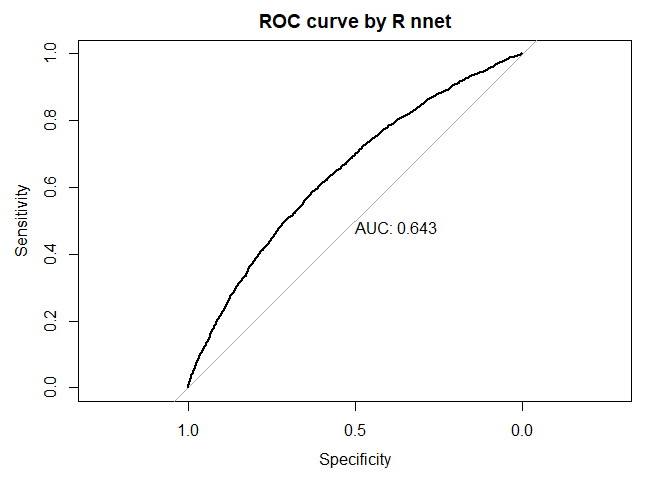
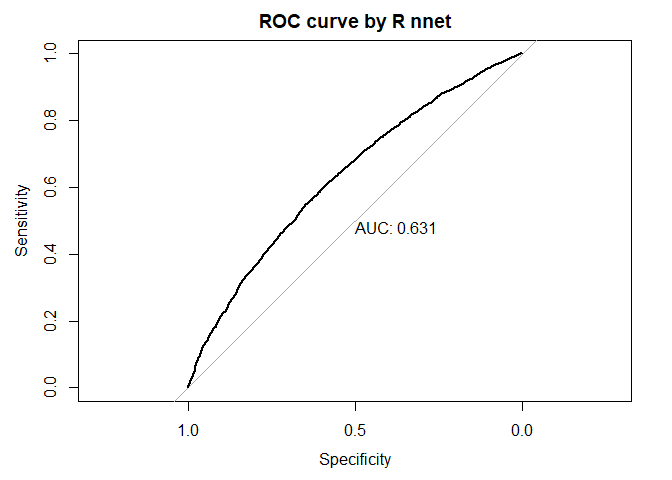
Updated the interpretations in README.

diff --git a/README.md b/README.md
@@ -96,7 +96,7 @@ nn_model_nnet <- nnet::nnet(X,Y,size=h, trace=FALSE)
 ``` r
 plot(nn_model)
 #> Setting levels: control = 0, case = 1
-#> Setting direction: controls < cases
+#> Setting direction: controls > cases
 #> Setting levels: control = 0, case = 1
 #> Setting direction: controls < cases
 ```
@@ -107,8 +107,8 @@ plot(nn_model)
     #> Call:
     #> roc.default(response = data[, ncol(data)], predictor = nn_R_pred,     plot = TRUE, print.auc = TRUE, main = "ROC curve by R nnet")
     #> 
-    #> Data: nn_R_pred in 4920 controls (data[, ncol(data)] 0) < 5080 cases (data[, ncol(data)] 1).
-    #> Area under the curve: 0.6426
+    #> Data: nn_R_pred in 4875 controls (data[, ncol(data)] 0) < 5125 cases (data[, ncol(data)] 1).
+    #> Area under the curve: 0.6312
     summary(nn_model)
     #> $num_nodes
     #>  # of input nodes # of hidden nodes # of output nodes 
@@ -122,38 +122,38 @@ plot(nn_model)
     #> 
     #> $weight_bias_matrices
     #> $weight_bias_matrices$weight_input_hidden
-    #>              X1         X2
-    #> [1,] 0.01818306 0.08968018
-    #> [2,] 0.01818306 0.08968018
-    #> [3,] 0.01818306 0.08968018
-    #> [4,] 0.01818306 0.08968018
+    #>               X1         X2
+    #> [1,] -0.03438751 -0.0735563
+    #> [2,] -0.03438751 -0.0735563
+    #> [3,] -0.03438751 -0.0735563
+    #> [4,] -0.03438751 -0.0735563
     #> 
     #> $weight_bias_matrices$weight_hidden_output
     #>            [,1]       [,2]       [,3]       [,4]
-    #> [1,] 0.01680826 0.01680826 0.01680826 0.01680826
+    #> [1,] 0.02524909 0.02524909 0.02524909 0.02524909
     #> 
     #> $weight_bias_matrices$bias_hidden
-    #>            [,1]
-    #> [1,] 0.01024479
-    #> [2,] 0.01024479
-    #> [3,] 0.01024479
-    #> [4,] 0.01024479
+    #>             [,1]
+    #> [1,] 0.009070399
+    #> [2,] 0.009070399
+    #> [3,] 0.009070399
+    #> [4,] 0.009070399
     #> 
     #> $weight_bias_matrices$bias_output
-    #>             [,1]
-    #> [1,] -0.06650967
+    #>            [,1]
+    #> [1,] -0.1259049
     print(nn_model) # This will print the benchmark comparison for training part.
     #> Warning: Some expressions had a GC in every iteration; so filtering is disabled.
     #> # A tibble: 2 x 13
     #>   expression   min median `itr/sec` mem_alloc gc/se~1 n_itr  n_gc total~2 result
     #>   <bch:expr> <dbl>  <dbl>     <dbl>     <dbl>   <dbl> <int> <dbl> <bch:t> <list>
-    #> 1 BackPropNN  38.9   25.6      1         1        Inf     1    14   501ms <NULL>
-    #> 2 R nnet       1      1        5.53      6.82     NaN     7     0   634ms <NULL>
+    #> 1 BackPropNN  27.8   25.5      1         1        Inf     2    27   942ms <NULL>
+    #> 2 R nnet       1      1        9.25      6.82     NaN    10     0   509ms <NULL>
     #> # ... with 3 more variables: memory <list>, time <list>, gc <list>, and
     #> #   abbreviated variable names 1: `gc/sec`, 2: total_time
     #> $mse_comparison
     #>     MSE by R nnet MSE by BackPropNN 
-    #>         0.2346527         0.2499971
+    #>         0.2367532         0.2517741
 
     # Running the benchmark comparison for prediction task.
     bench::mark("BackPropNN"=feed_forward(data, nn_model),
@@ -163,8 +163,8 @@ plot(nn_model)
     #> # A tibble: 2 x 6
     #>   expression   min median `itr/sec` mem_alloc `gc/sec`
     #>   <bch:expr> <dbl>  <dbl>     <dbl>     <dbl>    <dbl>
-    #> 1 BackPropNN  828.   706.        1       1        1.23
-    #> 2 R nnet        1      1       639.      3.34     1
+    #> 1 BackPropNN  751.   715.        1       1        2.33
+    #> 2 R nnet        1      1       652.      3.34     1
 
 We see that a better AUC score is achieved by the BackPropNN package
 than R nnet, however a better mse is achieved by R nnet (achieving
@@ -196,9 +196,9 @@ bench::mark("Original"=back_propagation_training(i, h, o, learning_rate,
 #> # A tibble: 3 x 6
 #>   expression    min median `itr/sec` mem_alloc `gc/sec`
 #>   <bch:expr>  <dbl>  <dbl>     <dbl>     <dbl>    <dbl>
-#> 1 Original   135.   121.        1         1         Inf
-#> 2 R nnet       4.26   5.59      6.02      6.82      NaN
-#> 3 Rcpp         1      1       116.        2.41      Inf
+#> 1 Original   125.   129.        1         1         Inf
+#> 2 R nnet       5.40   6.63      3.45      6.82      NaN
+#> 3 Rcpp         1      1       122.        2.41      Inf
 
 # Running the benchmark comparison for prediction task.
 bench::mark("Original"=feed_forward(data, nn_model_original),
@@ -209,9 +209,9 @@ bench::mark("Original"=feed_forward(data, nn_model_original),
 #> # A tibble: 3 x 6
 #>   expression    min median `itr/sec` mem_alloc `gc/sec`
 #>   <bch:expr>  <dbl>  <dbl>     <dbl>     <dbl>    <dbl>
-#> 1 Original   962.   792.          1       2.77     8.36
-#> 2 R nnet       1      1         689.      9.23     7.00
-#> 3 Rcpp         2.94   3.17      240.      1        1
+#> 1 Original   764.   737.          1       2.77      Inf
+#> 2 R nnet       1      1         675.      9.23      Inf
+#> 3 Rcpp         2.66   2.61      277.      1         NaN
 ```
 
 We notice that for the training part, Rcpp version achieves best
